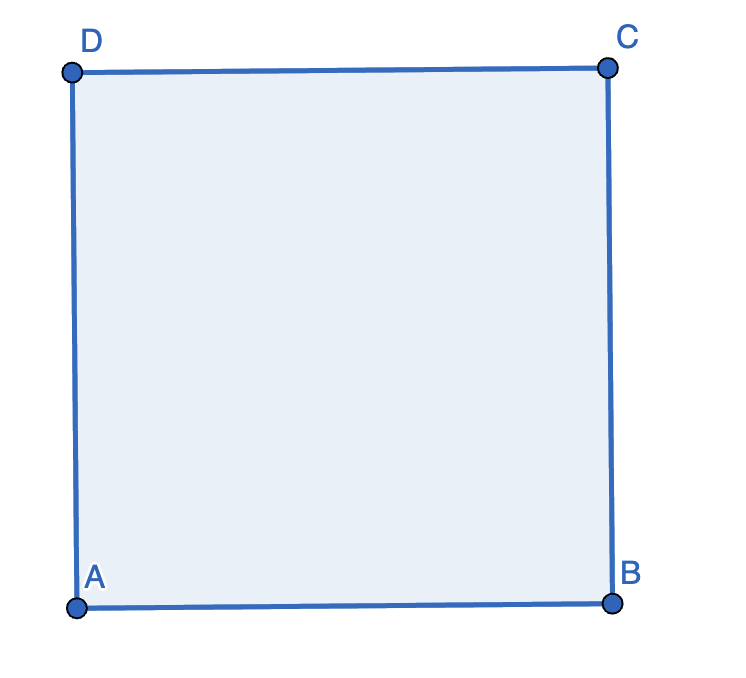
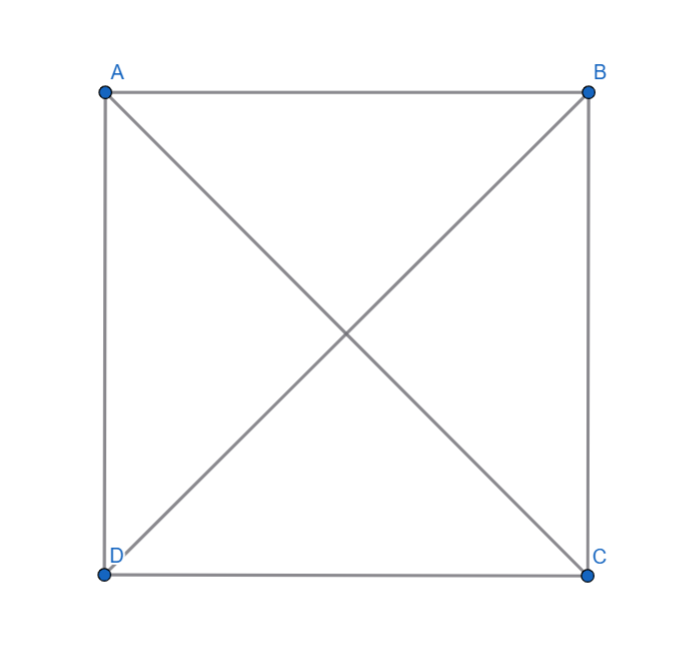
Complete 2.4 exercise

diff --git a/ch2_graph_theory/2.4_notes.md b/ch2_graph_theory/2.4_notes.md
@@ -21,10 +21,29 @@
 ### Additional Exercises
 2. Which of the following graphs have Euler circuits?
    - $K_4$
-     - ![A](../visuals/2.4_exercise2_a.png)
+     - Here is a visual of a $K_4$ graph
+       - ![A](../visuals/2.4_exercise2_a.png)
+     - The graph above *does* have an Euler circuit. We know this because the degree of every vertex is even.
    - $K_5$
-     - ![B](../visuals/2.4_exercise2_b.png)
+     - Here is a visual of a $K_5$ graph
+       - ![B](../visuals/2.4_exercise2_b.png)
+     - The graph above has an Euler circuit, which we can see because there are no odd-degree vertices.
    - $K_{5,7}$
+     - Here is a visual of a $K_{5,7}$ graph
+       - ![C](../visuals/2.4_exercise2_c.png)
+     - This graph does *not* have an Euler circuit. The degree of all vertices in a graph must be even for that graph to contain an Euler circuit, and in this graph, there is not a single even-degree vertex.
+       - This means that it does not have an Euler trail, either, as it has more than 2 odd-degree vertices
    - $K_{2,7}$
+     - Here is a visual of a $K_{2,7}$ graph
+       - ![D](../visuals/2.4_exercise2_d.png)
+     - This graph does not have an Euler circuit, as vertices A and B (on the image above) have degrees of 7. Since a graph with an Euler circuit must have only vertices of even degree, it cannot have one.
+       - This graph does, though, have an Euler trail, as A and B are the only odd-degree vertices. 
    - $C_7$
+     - Here is a visual of a $C_7$ graph
+       - ![E](../visuals/2.4_exercise2_e.png)
+     - This graph *does* have an Euler circuit. We can see this easily by looking at the graph and seeing that all vertices have a degree of 2. In addition, we know from previous sections that in *all* cycle graphs, the degree of every vertex is 2.
    - $P_7$
+     - Here is a visual of a $P_7$ graph
+       - ![F](../visuals/2.4_exercise2_f.png)
+     - This graph does *not* have an Euler circuit. For a graph to contain an Euler circuit, it must not have any odd-degree vertices. This graph, however, has 2 odd-degree vertices: the two on the ends (vertices A and G on the image above).
+       - This graph does, however, have an Euler trail, as it has exactly *two* odd-degree vertices.